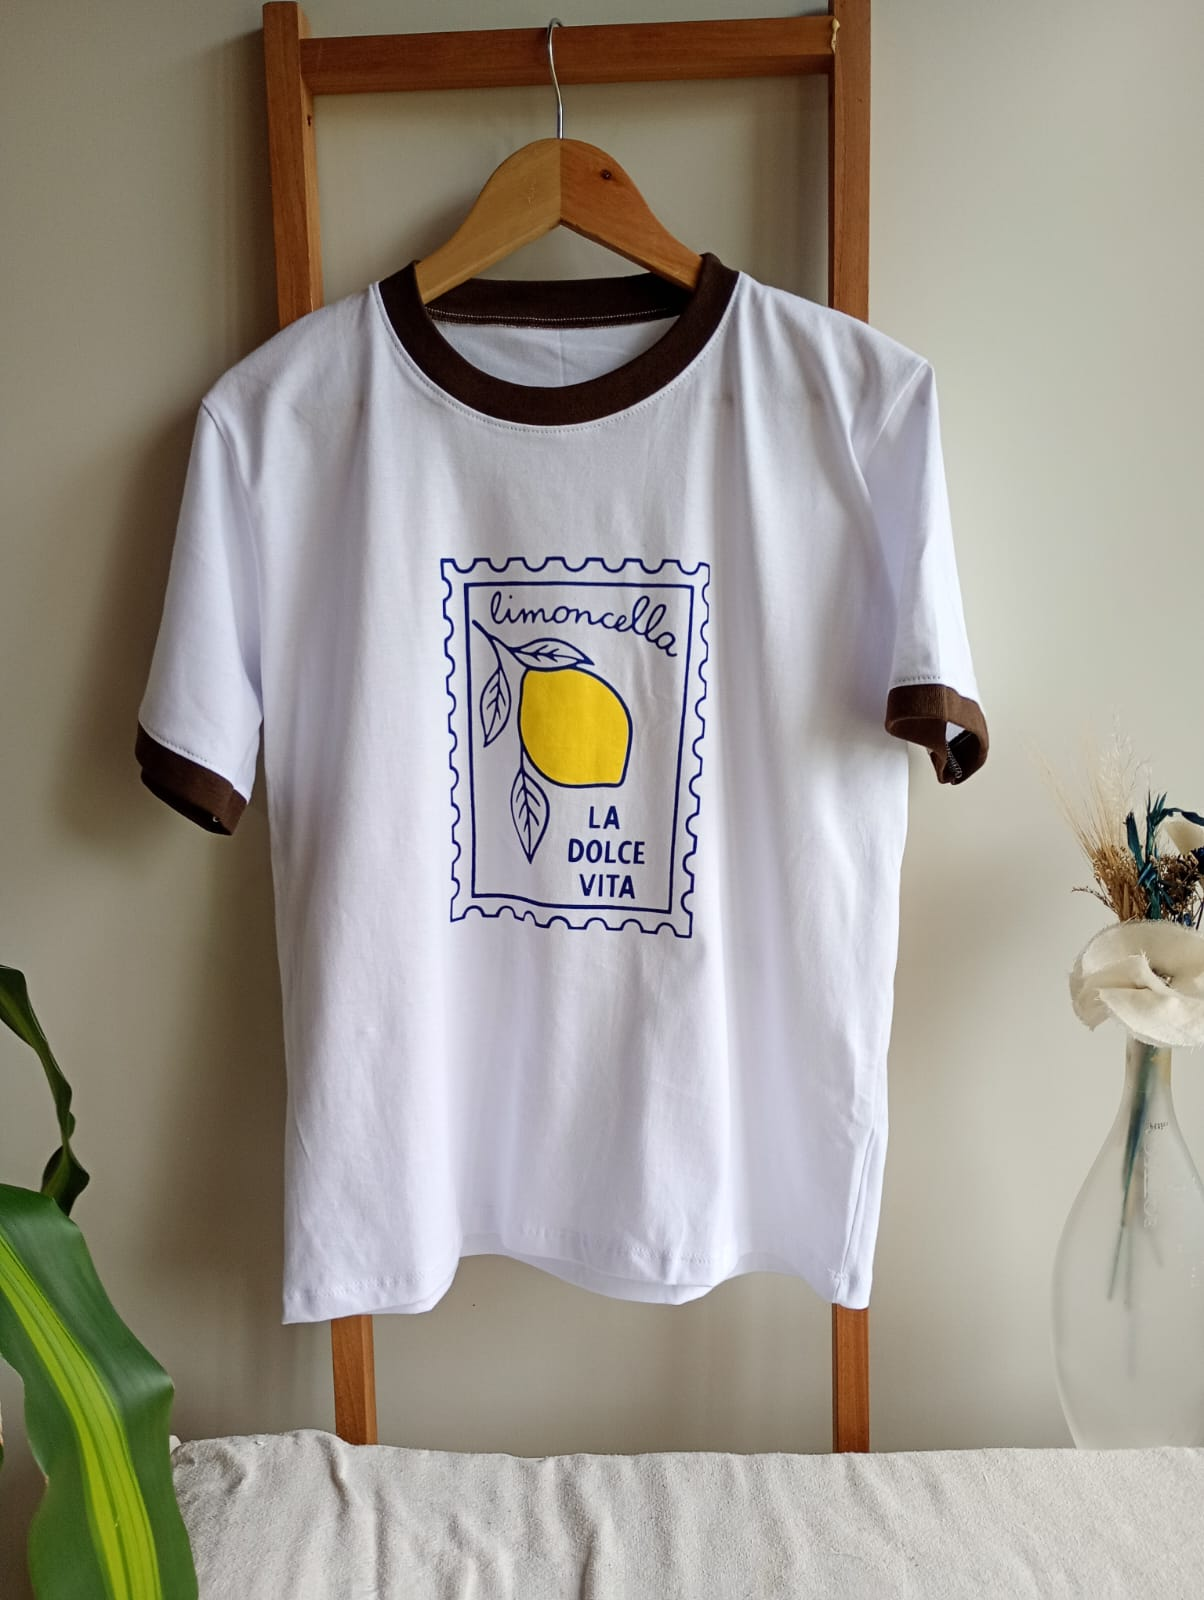
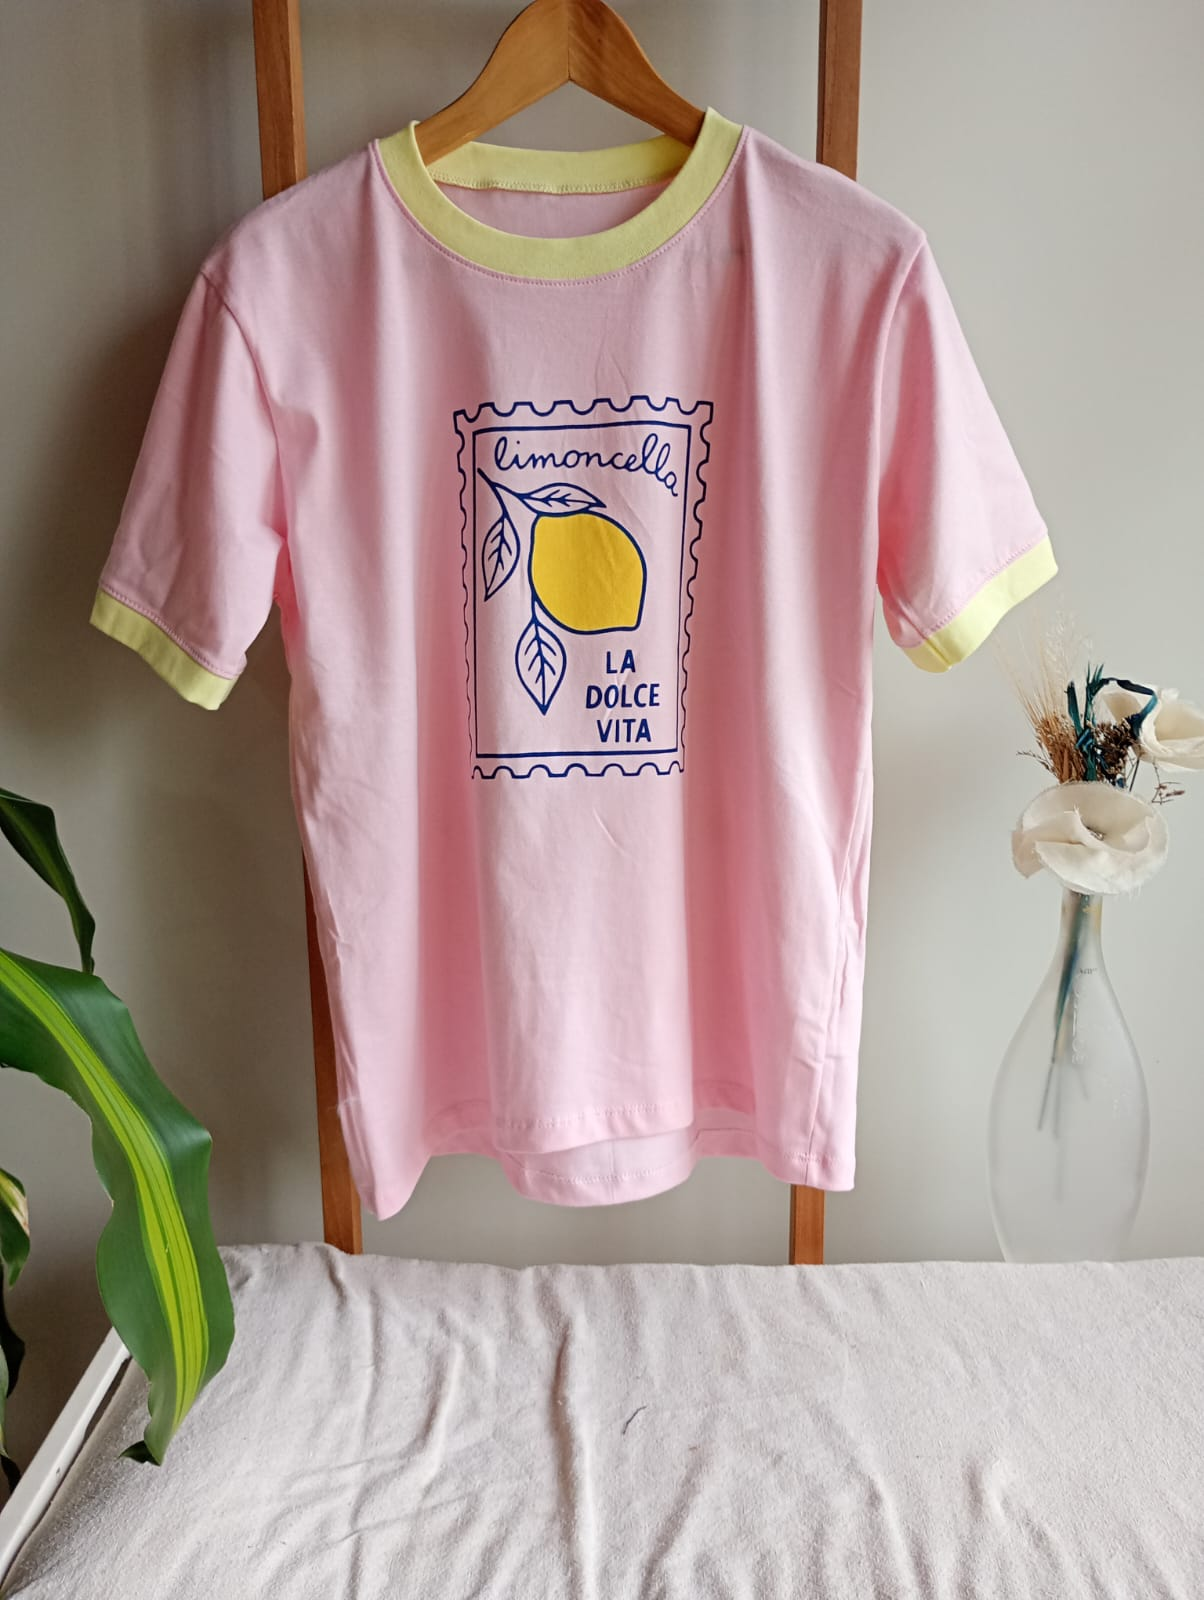
8.6

diff --git a/index.html b/index.html
@@ -75,8 +75,7 @@
 <div class="big-letter">LGS</div>
 </div>
 <div class="hero-badge">
-<p>Colección</p>
-<strong>Otoño 2025</strong>
+<strong>Colección</strong>
 </div>
 </div>
 </section>
@@ -85,11 +84,8 @@
 ============================================================ -->
 <div class="strip">
 <div class="strip-inner">
-<span>Envíos a todo Córdoba</span><span class="dot">✦</span>
-<span>Nueva colección disponible</span><span class="dot">✦</span>
 <span>Consultá por WhatsApp</span><span class="dot">✦</span>
-<span>Remeras · Vestidos · Polleras</span><span class="dot">✦</span>
-<span>Elegancia para cada día</span><span class="dot">✦</span>
+<span>Remeras · Vestidos · Polleras · Accesorios · Jeans</span><span class="dot">✦</span>
 <span>LAS GARCIAS – Indumentaria Femenina</span><span class="dot">✦</span>
 <!-- Repetir para efecto continuo -->
 <span>Envíos a todo Córdoba</span><span class="dot">✦</span>
@@ -115,7 +111,7 @@
 <div class="cats-grid">
 <div class="cat-card reveal" style="transition-delay:.05s">
 <div class="cat-card-bg cat-1">
-<div class="cat-pattern"><span class="cat-emoji">👗</span></div>
+<div class="cat-pattern"><span class="cat-emoji">❄</span></div>
 </div>
 <div class="cat-card-overlay"></div>
 <div class="cat-card-content">
@@ -125,7 +121,7 @@
 </div>
 <div class="cat-card reveal" style="transition-delay:.1s">
 <div class="cat-card-bg cat-2">
-<div class="cat-pattern"><span class="cat-emoji">👖</span></div>
+<div class="cat-pattern"><span class="cat-emoji">☀</span></div>
 </div>
 <div class="cat-card-overlay"></div>
 <div class="cat-card-content">
@@ -135,7 +131,7 @@
 </div>
 <div class="cat-card reveal" style="transition-delay:.15s">
 <div class="cat-card-bg cat-3">
-<div class="cat-pattern"><span class="cat-emoji">👚</span></div>
+<div class="cat-pattern"><span class="cat-emoji">🔥</span></div>
 </div>
 <div class="cat-card-overlay"></div>
 <div class="cat-card-content">
@@ -145,7 +141,7 @@
 </div>
 <div class="cat-card reveal" style="transition-delay:.2s">
 <div class="cat-card-bg cat-4">
-<div class="cat-pattern"><span class="cat-emoji">🧥</span></div>
+<div class="cat-pattern"><span class="cat-emoji">💎</span></div>
 </div>
 <div class="cat-card-overlay"></div>
 <div class="cat-card-content">
@@ -180,7 +176,7 @@
         </div>
       </div>
       <div class="product-info">
-        <h3>Gorra turra</h3>
+        <h3>Coscu</h3>
         <p>Minimalista · Para salir</p>
       </div>
     </div>
@@ -195,7 +191,7 @@
         </div>
       </div>
       <div class="product-info">
-        <h3>Pantalones</h3>
+        <h3>Momo</h3>
         <p>Cómodos · Versátiles</p>
       </div>
     </div>
@@ -210,7 +206,7 @@
         </div>
       </div>
       <div class="product-info">
-        <h3>Abrigo Oversize</h3>
+        <h3>Duki</h3>
         <p>Cálido · Moderno</p>
       </div>
     </div>
@@ -224,7 +220,7 @@
         </div>
       </div>
       <div class="product-info">
-        <h3>Remeras y Musculosas</h3>
+        <h3>Lit Killah</h3>
         <p>Básicos · Para cada día</p>
       </div>
     </div>

diff --git a/script.js b/script.js
@@ -55,20 +55,23 @@ if (productsAllGrid) {
     'chaleco Jaz.jpeg',
     'chaleco aura.jpeg',
     'chaleco cloe.jpeg',
+    'chaleco rhea.jpeg',
     'chaleco rhea (2).jpeg',
     'chaleco rhea (3).jpeg',
-    'chaleco rhea.jpeg',
     'musculosa balloon.jpeg',
     'musculosa eira.jpeg',
-    'musculosa jana.jpeg',
+    'musculosa jana (4).jpeg',    
+    'musculosa jana (3).jpeg',    
+    'musculosa jana (2).jpeg',    
+    'musculosa jana.jpeg',    
+    'musculosa nox.jpeg',
     'musculosa nox (2).jpeg',
     'musculosa nox (3).jpeg',
     'musculosa nox (4).jpeg',
-    'musculosa nox.jpeg',
+    'musculosa onix.jpeg',
     'musculosa onix (2).jpeg',
     'musculosa onix (3).jpeg',
     'musculosa onix (4).jpeg',
-    'musculosa onix.jpeg',
     'pantalon gala (2).jpeg',
     'pantalon gala (3).jpeg',
     'pantalon gala.jpeg',
@@ -83,13 +86,17 @@ if (productsAllGrid) {
     'remera ger.jpeg',
     'remera iza.jpeg',
     'remera mare.jpeg',
+    "remera mare (2).jpeg",
     'remera margo (2).jpeg',
+    'remera margo (4).jpeg',
+    'remera margo (3).jpeg',
     'remera margo.jpeg',
     'remera ray.jpeg',
     'remera sian (2).jpeg',
     'remera sian.jpeg',
     'remera sun (2).jpeg',
     'remera sun.jpeg',
+    "remera vita (3).jpeg",
     'remera vita (2).jpeg',
     'remera vita.jpeg',
     'short lumi (2).jpeg',
@@ -119,6 +126,7 @@ if (productsAllGrid) {
     'vestido gema (2).jpeg',
     'vestido gema.jpeg',
     'vestido kyra.jpeg',
+    "remera eter.jpeg",
   ];
 
   const removeExtension = (fileName) => fileName.replace(/\.jpe?g$/i, '');
